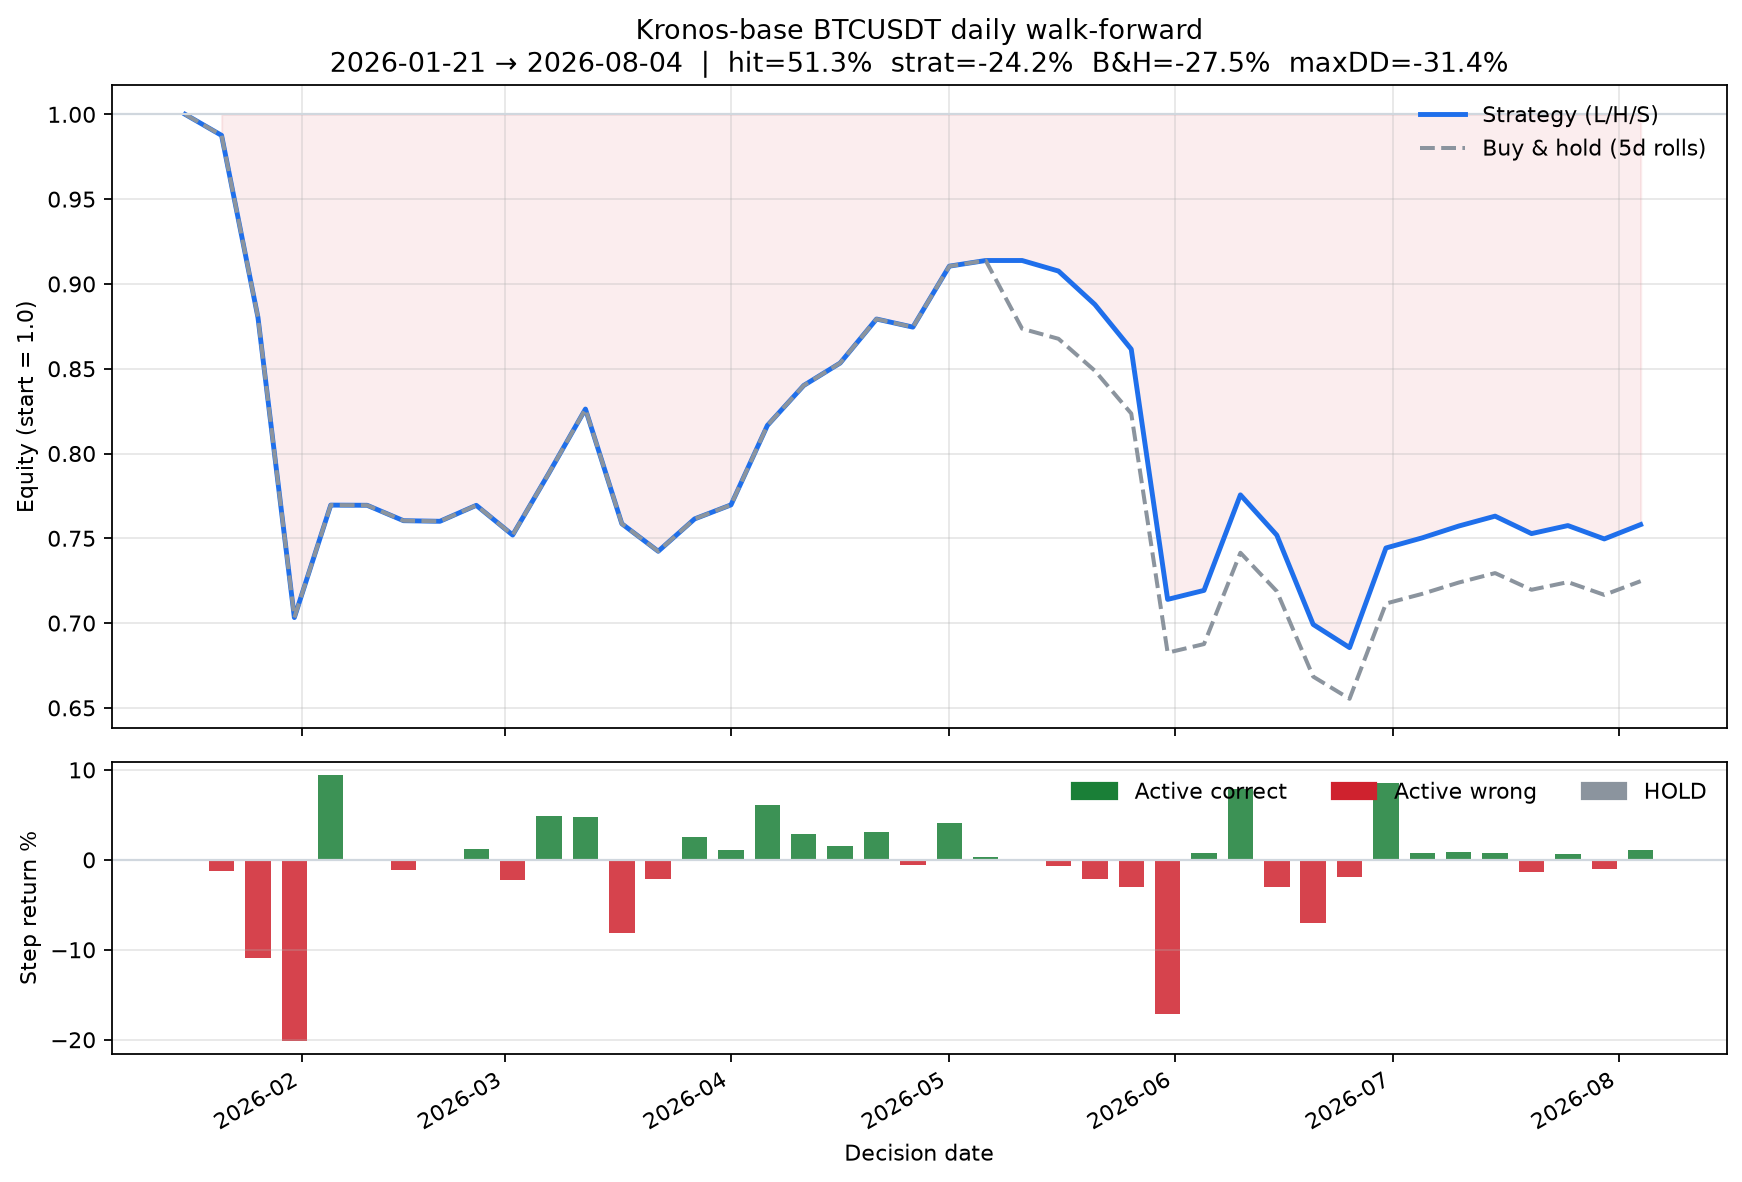
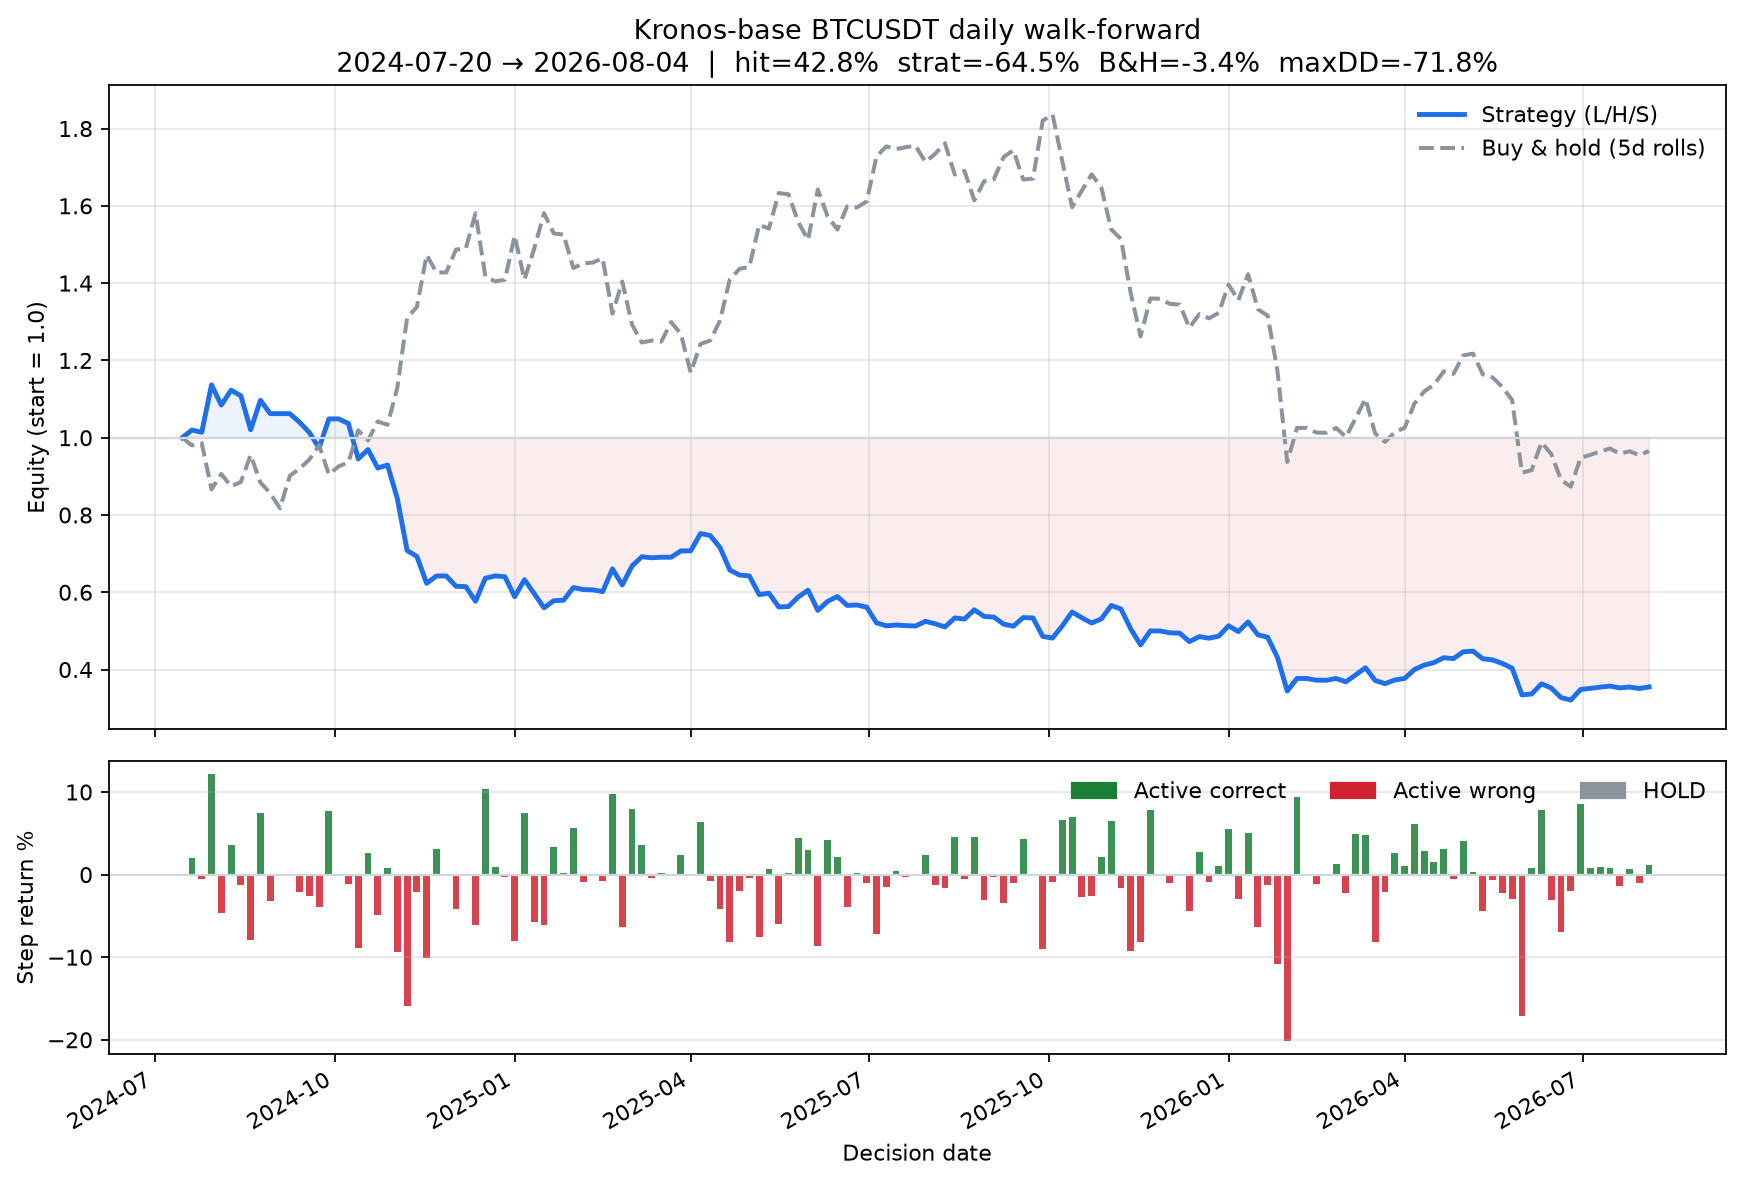
Extend Kronos backtest to ~2y and add failure diagnostics charts
150 non-overlapping 5d steps (2024-07 → 2026-08) show ~zero
pred/realized correlation and overconfident long/short clustering.

diff --git a/kronos_signal/backtest.py b/kronos_signal/backtest.py
@@ -69,7 +69,10 @@ def compute_diagnostics(steps: list[StepResult]) -> dict:
     pred = np.array([s.mean_return for s in steps], dtype=float)
     real = np.array([s.realized_return for s in steps], dtype=float)
     p_up = np.array([s.p_up for s in steps], dtype=float)
-    corr = float(np.corrcoef(pred, real)[0, 1]) if len(steps) > 1 else float("nan")
+    if len(steps) > 1 and np.std(pred) > 1e-12 and np.std(real) > 1e-12:
+        corr = float(np.corrcoef(pred, real)[0, 1])
+    else:
+        corr = float("nan")
     abs_pred = float(np.mean(np.abs(pred)))
     abs_real = float(np.mean(np.abs(real)))
     return {

diff --git a/kronos_signal/plot_backtest.py b/kronos_signal/plot_backtest.py
@@ -122,7 +122,7 @@ def plot_diagnostics(
     ax2.grid(True, axis="y", alpha=0.3)
     ax2.legend(frameon=False)
 
-    fig.suptitle("Why the signal fails: optimistic bias + weak ranking", y=1.02)
+    fig.suptitle("Why the signal fails: overconfident paths + ~zero ranking power", y=1.02)
     fig.tight_layout()
     fig.savefig(out, dpi=160, bbox_inches="tight")
     plt.close(fig)
